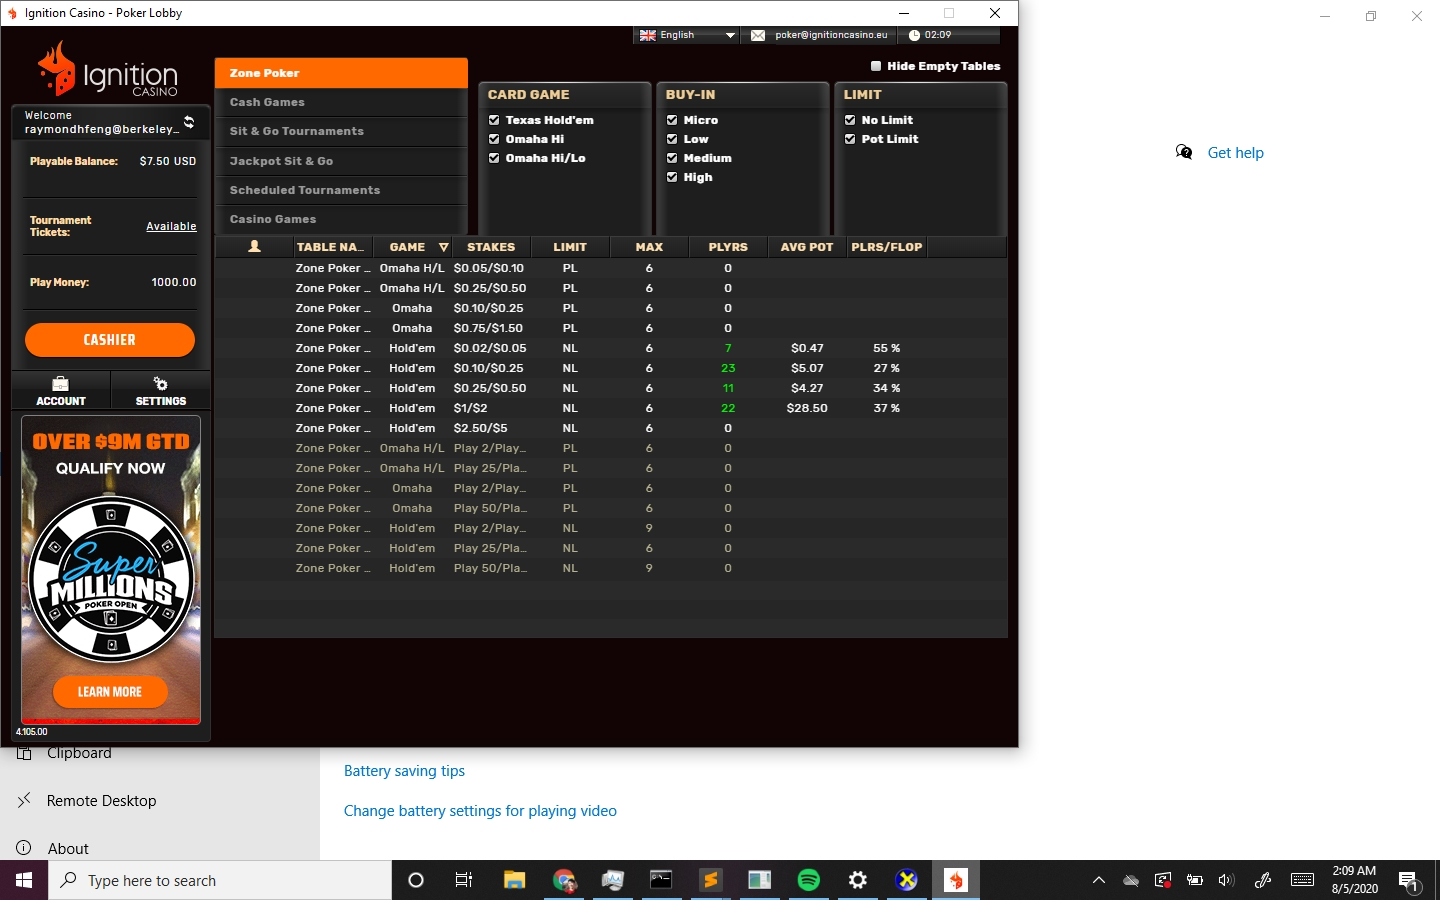
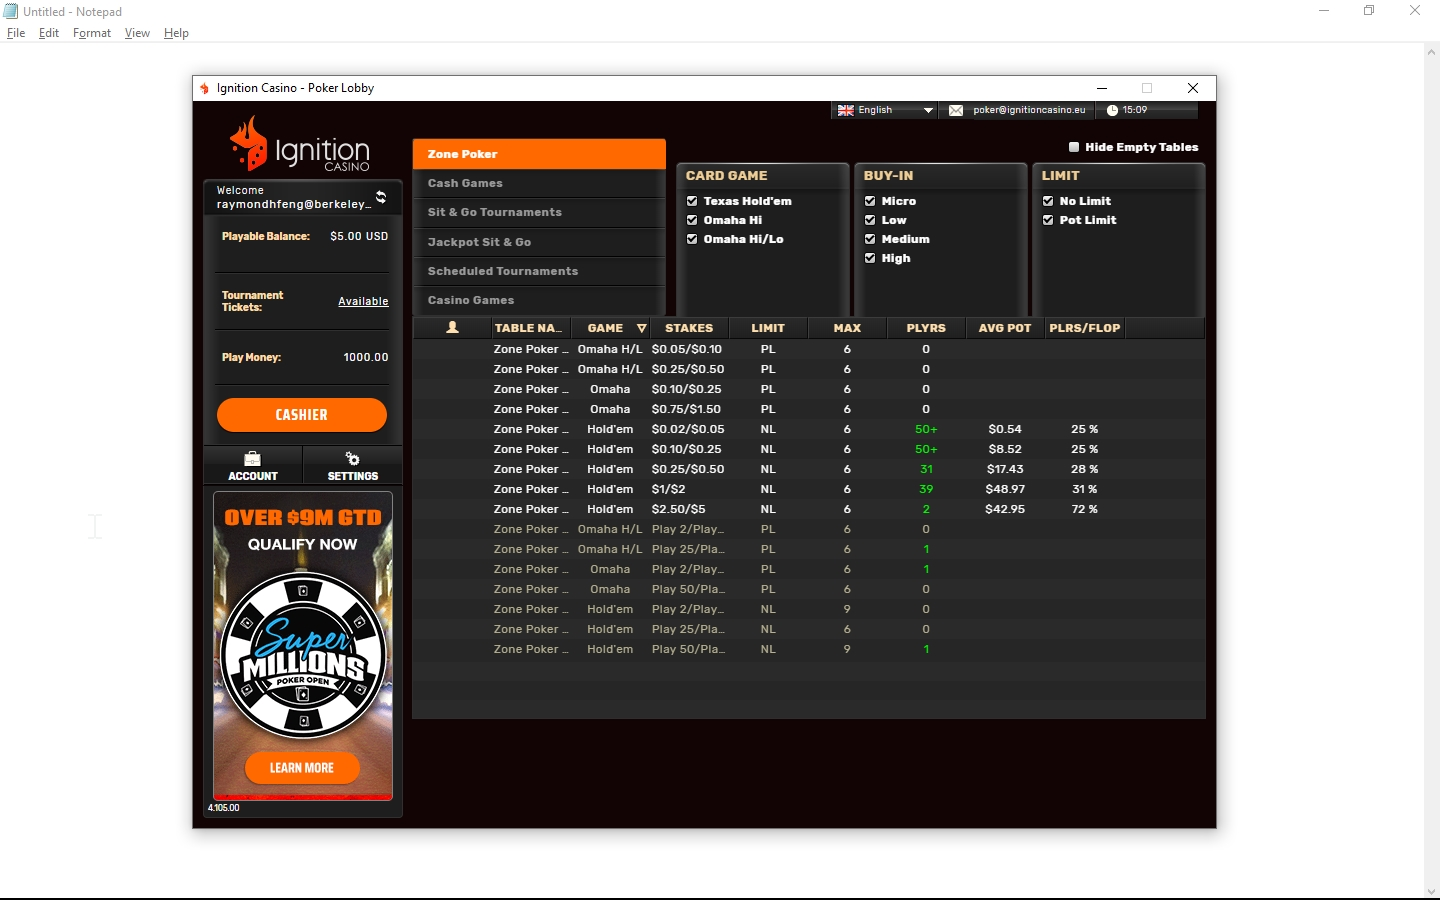
used canny edge and hough transform to allow the window to be anywhere

diff --git a/get_ignition_stats_windows.py b/get_ignition_stats_windows.py
@@ -31,21 +31,20 @@ def get_stats():
 	latest_file = max(list_of_files, key=os.path.getctime)
 
 	# latest_file = '/Users/raymondfeng/Desktop/TrickyWays/cropped/chubert.jpeg'
-
-	# Opens a image in RGB mode 
-	im = Image.open(latest_file) 
 	  
 	left = 292
-	top = 341 + 3
-	right = 908
+	top = 341 + 5
+	right = 908 + 4
 	bottom = 443 + 3	
 
-	im1 = im.crop((left, top, right, bottom)) 
-
-	# im1.save('/Users/raymondfeng/Desktop/TrickyWays/cropped/chubert_cropped.jpeg')  
-	# img = cv2.imread('/Users/raymondfeng/Desktop/TrickyWays/cropped/chubert_cropped.jpeg',0)
+	# img = canny_edge(latest_file) 
+	# img = img[top:bottom, left:right] 
+	# cv2.imwrite('/Users/raymondfeng/Desktop/TrickyWays/cropped/chubert_cropped.jpeg', img)
 	# im = Image.open('/Users/raymondfeng/Desktop/TrickyWays/cropped/chubert_cropped.jpeg')
-	im1.save('/home/pi/cropped.jpeg')
+
+	im = canny_edge(latest_file)
+	img = img[top:bottom, left:right]
+	im.save('/home/pi/cropped.jpeg')
 	im = Image.open('/home/pi/cropped.jpeg')
 
 	num_ppl = []
@@ -57,6 +56,8 @@ def get_stats():
 		img = im.crop((left, i*y_delta,
 			left+num_ppl_width, (i+1)*y_delta))
 		# img = add_margin(img, 5, 0, 5, 0, (255,255,255)) # Supposedly helps the OCR
+		# path_name = os.path.join('/Users/raymondfeng/Downloads/pre_ocr', 
+		# 	str(datetime.now())[10:19].replace(':','_') + '_' + str(i) + '_' + 'num_ppl.png')
 		path_name = os.path.join('/home/pi/pre_ocr', 
 			str(datetime.now())[10:19].replace(':','_') + '_' + str(i) + '_' + 'num_ppl.png')
 		img = img.resize((round(img.size[0]*10), round(img.size[1]*10)), Image.ANTIALIAS)
@@ -82,6 +83,8 @@ def get_stats():
 		img = im.crop((left, i*y_delta,
 			left+avg_pot_width, (i+1)*y_delta))
 		img = add_margin(img, 5, 0, 5, 0, (0,0,0)) # Supposedly helps the OCR
+		# path_name = os.path.join('/Users/raymondfeng/Downloads/pre_ocr', 
+		# 	str(datetime.now())[10:19].replace(':','_') + '_' + str(i) + '_' + 'avg_pot.png')
 		path_name = os.path.join('/home/pi/pre_ocr', 
 			str(datetime.now())[10:19].replace(':','_') + '_' + str(i) + '_' + 'avg_pot.png')
 		img = img.resize((round(img.size[0]*10), round(img.size[1]*10)), Image.ANTIALIAS)
@@ -107,6 +110,8 @@ def get_stats():
 		img = im.crop((left, i*y_delta,
 			left+plrs_flop_width, (i+1)*y_delta))
 		img = add_margin(img, 5, 0, 5, 0, (0,0,0)) # Supposedly helps the OCR
+		# path_name = os.path.join('/Users/raymondfeng/Downloads/pre_ocr', 
+		# 	str(datetime.now())[10:19].replace(':','_') + '_' + str(i) + '_' + 'plrs_flop.png')
 		path_name = os.path.join('/home/pi/pre_ocr', 
 			str(datetime.now())[10:19].replace(':','_') + '_' + str(i) + '_' + 'plrs_flop.png')
 		img = img.resize((round(img.size[0]*10), round(img.size[1]*10)), Image.ANTIALIAS)
@@ -128,4 +133,53 @@ def get_stats():
 
 	print(num_ppl, avg_pot, plrs_flop)
 	return num_ppl, avg_pot, plrs_flop
+
+def canny_edge(file_path):
+	import cv2
+	import numpy as np
+	import math
+	# https://stackoverflow.com/questions/45322630/how-to-detect-lines-in-opencv
+	img = cv2.imread(file_path)
+	img = img[50:-50,50:-50] # Cropping the borders
+
+	gray = cv2.cvtColor(img,cv2.COLOR_BGR2GRAY)
+
+	kernel_size = 5
+	blur_gray = cv2.GaussianBlur(gray,(kernel_size, kernel_size),0)
+
+	low_threshold = 50
+	high_threshold = 150
+	edges = cv2.Canny(blur_gray, low_threshold, high_threshold)
+
+	rho = 1  # distance resolution in pixels of the Hough grid
+	theta = np.pi / 180  # angular resolution in radians of the Hough grid
+	threshold = 15  # minimum number of votes (intersections in Hough grid cell)
+	min_line_length = 50  # minimum number of pixels making up a line
+	max_line_gap = 20  # maximum gap in pixels between connectable line segments
+	line_image = np.copy(img) * 0  # creating a blank to draw lines on
+
+	# Run Hough on edge detected image
+	# Output "lines" is an array containing endpoints of detected line segments
+	lines = cv2.HoughLinesP(edges, rho, theta, threshold, np.array([]),
+	                    min_line_length, max_line_gap)
+
+	top = sorted(lines, key=lambda x: x[0][1])[0] # Top is the line with smallest y coord.
+	bottom = sorted(lines, key=lambda x:x[0][1])[-1] # Bottom is the line with largest y coord.
+	left = sorted(lines, key=lambda x:x[0][0])[0] # Left is the line with the smallest x coord
+	right = sorted(lines, key=lambda x:x[0][0])[-1] # Right is the line with the largest x coord
+	borders = [top, bottom, left, right]
+	for line in borders:
+	    for x1,y1,x2,y2 in line:
+	    	print(line)
+	    	cv2.line(line_image,(x1,y1),(x2,y2),(255,0,0),5)
+
+	top, bottom, left, right = top[0][1], bottom[0][1], left[0][0], right[0][0]
+	img = img[top:bottom,left:right]
+	return img
+
+def main():
+	get_stats()
+
+if __name__ == '__main__':
+	main()
 
